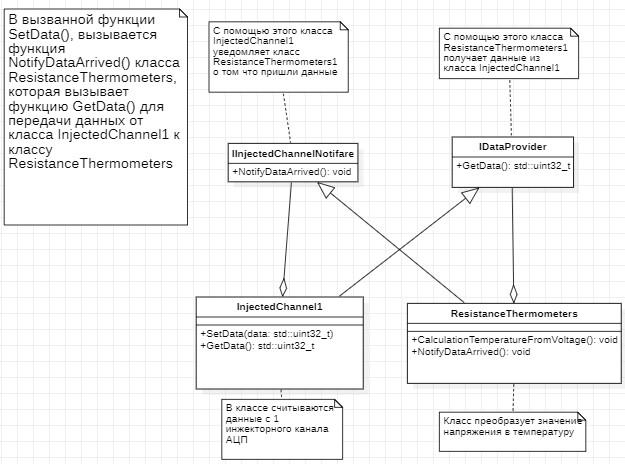
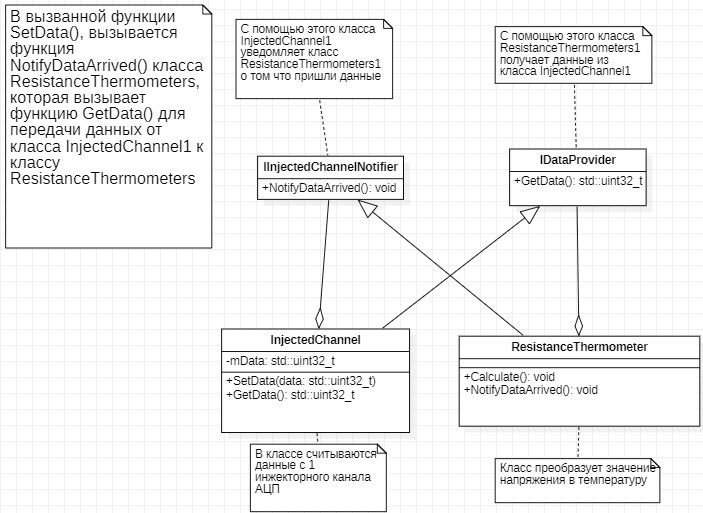
Изменил раздел MeasurementTemperatureResistance (#6)
* Изменил раздел MeasurementTemperatureResistance

* Исправил пару замечаний

* Исправил

* Исправил

* Исправил

diff --git a/source/main.cpp b/source/main.cpp
@@ -1,8 +1,9 @@
 #include "rtos.hpp"         // for Rtos
 
-#include <iostream>
-#include "adc.h"
+#include "injectedchannel.h"          // for InjectedChannel 
+#include "adc.h"                      // for Adc
 #include "measurementTask.h"          // for MeasurementTask
+#include "resistancethermometer.h"   // for ResistanceThermometers
 
 #include "rccregisters.hpp" // for RCC
 
@@ -10,7 +11,6 @@
 #include "gpiocregisters.hpp"  // for GPIOC
 
 #include "adc1registers.hpp" // for ADC1
-#include "adccommonregisters.hpp"
 
 std::uint32_t SystemCoreClock = 16'000'000U;
 
@@ -38,17 +38,50 @@ int __low_level_init(void)
 
   RCC::APB2ENR::SYSCFGEN::Enable::Set();
   
-
   RCC::APB2ENR::ADC1EN::Enable::Set();
+  
+  /* ADC setup */
+  
+  RCC::APB2ENR::ADC1EN::Enable::Set();
+  
+  GPIOA::MODER::MODER0::Analog::Set(); // setting the port to analog input
+  GPIOA::MODER::MODER4::Analog::Set(); // setting the port to analog input
+  
+  ADC1::CR1::RES::Bits12::Set();// ADC capacity
+  
+  ADC1::CR1::SCAN::Enable::Set(); // Enabling Scan Mode
+  
+  ADC1::CR2::CONT::SingleConversion::Set(); // Enabling single conversion mode
+  ADC1::CR2::EOCS::SequenceConversion::Set(); // The selection of the end of transformation type EOC is set after the end of the transformation for the entire sequence
+  
+  ADC1::JSQR::JL::Conversions4::Set(); // Transform sequence length
+  ADC1::JSQR::JSQ1::Channel17::Set(); // Change the channel number for TODO conversion to channel 0
+  ADC1::JSQR::JSQ2::Channel13::Set();
+  
+  ADC1::SMPR1::SMP16::Cycles480::Set(); // Selecting the sampling time for a channel
+  
+  ADC1::CR2::ADON::Enable::Set(); // turn on ADC
+  
+  /* ADC setup end */
   
   return 1;
 }
 }
-Adc adc1;
+extern ResistanceThermometer ResistanceThermometerDirect;
+extern ResistanceThermometer ResistanceThermometerReverse;
+
+InjectedChannel channelResistanceThermometerDirect(static_cast<IInjectedChannelNotifier&>(ResistanceThermometerDirect));
+InjectedChannel channelResistanceThermometerReverse(static_cast<IInjectedChannelNotifier&>(ResistanceThermometerReverse));
+
+ResistanceThermometer ResistanceThermometerDirect(static_cast<IDataProvider&>(channelResistanceThermometerDirect));
+ResistanceThermometer ResistanceThermometerReverse(static_cast<IDataProvider&>(channelResistanceThermometerReverse));
+
+Adc<channelResistanceThermometerDirect, channelResistanceThermometerReverse> adc1;
 MeasurementTask measurementTask(adc1);
 
 int main()
 {
+
   using namespace OsWrapper;
   
   Rtos::CreateThread(measurementTask, "measurementTask");

diff --git a/source/Application/Sensors/resistancethermometer.h b/source/Application/Sensors/resistancethermometer.h
@@ -1,0 +1,24 @@
+#ifndef RESISTANCETHERMOMETER
+#define RESISTANCETHERMOMETER
+
+#include <cstdint> // for std::uint32_t
+#include "idataprovider.h" // for IDataProvider
+#include "iinjectedchannelnotifier.h" // for IInjectedChannel 
+#include "idataprovider.h" // for IFloatDataProvider
+
+class ResistanceThermometer : public IInjectedChannelNotifier, public IFloatDataProvider
+{
+  public:
+    ResistanceThermometer(IDataProvider& dataProvider) : mDataProvider(dataProvider)
+    {
+    }
+    void NotifyDataArrived() override;
+    float GetData() const override;
+  private:
+    IDataProvider& mDataProvider;
+    float mValue = 0.0f;
+    float Calculate(std::uint32_t adcCode);
+    
+};
+
+#endif

diff --git a/source/Application/InjectedChannel/injectedchannel.h b/source/Application/InjectedChannel/injectedchannel.h
@@ -4,15 +4,20 @@
 #include <cstdint> // for std::uint32_t
 #include "iinjectedchannel.h" // for IInjectedChannel 
 #include "idataprovider.h" // for IDataProvider
+#include "iinjectedchannelnotifier.h" // for IInjectedChannel 
 
-class InjectedChannel : public IInjectedChannel, IDataProvider
+class InjectedChannel : public IInjectedChannel, public IDataProvider
 {
   public:
+    InjectedChannel(IInjectedChannelNotifier& notifier) : mNotifier(notifier)
+    {
+    }
     void SetData(std::uint32_t data) override;
     
     std::uint32_t GetData() const override;
   private:
     std::uint32_t mData;
+    IInjectedChannelNotifier& mNotifier;
 };
 
 #endif

diff --git a/source/Application/Sensors/resistancethermometer.cpp b/source/Application/Sensors/resistancethermometer.cpp
@@ -1,0 +1,18 @@
+#include "resistancethermometer.h" //for ResistanceThermometers
+#include <iostream>                   // for std::cout
+
+void ResistanceThermometer::NotifyDataArrived()
+{
+  mValue = Calculate(mDataProvider.GetData());
+  std::cout << mValue << std::endl; // TODO delete 
+}
+
+float ResistanceThermometer::Calculate(std::uint32_t adcCode)
+{
+  return adcCode;
+}
+
+float ResistanceThermometer::GetData() const
+{
+  return mValue;
+}

diff --git a/source/Application/Tasks/measurementTask.h b/source/Application/Tasks/measurementTask.h
@@ -3,7 +3,7 @@
 
 #include "thread.hpp" //For OsWrapper::Thread
 
-class MeasurementTask : public OsWrapper::Thread<128>
+class MeasurementTask : public OsWrapper::Thread<512>
 {
   public:
     MeasurementTask(IUpdater& adc) : _adc(adc){}

diff --git a/source/Application/Contracts/iinjectedchannelnotifier.h b/source/Application/Contracts/iinjectedchannelnotifier.h
@@ -1,0 +1,10 @@
+#ifndef IINJECTEDCHANNELNOTIFIER
+#define IINJECTEDCHANNELNOTIFIER
+
+class IInjectedChannelNotifier
+{
+  public:
+      virtual void NotifyDataArrived() = 0;
+};
+
+#endif

diff --git a/source/Application/Contracts/idataprovider.h b/source/Application/Contracts/idataprovider.h
@@ -7,4 +7,10 @@ class IDataProvider
     virtual std::uint32_t GetData() const = 0;
 };
 
+class IFloatDataProvider 
+{
+  public:
+    virtual float GetData() const = 0;
+};
+
 #endif

diff --git a/source/Application/InjectedChannel/injectedchannel.cpp b/source/Application/InjectedChannel/injectedchannel.cpp
@@ -3,6 +3,7 @@
 void InjectedChannel::SetData(std::uint32_t data)
 {
   mData = data;
+  mNotifier.NotifyDataArrived();
 }
 
 std::uint32_t InjectedChannel::GetData() const
